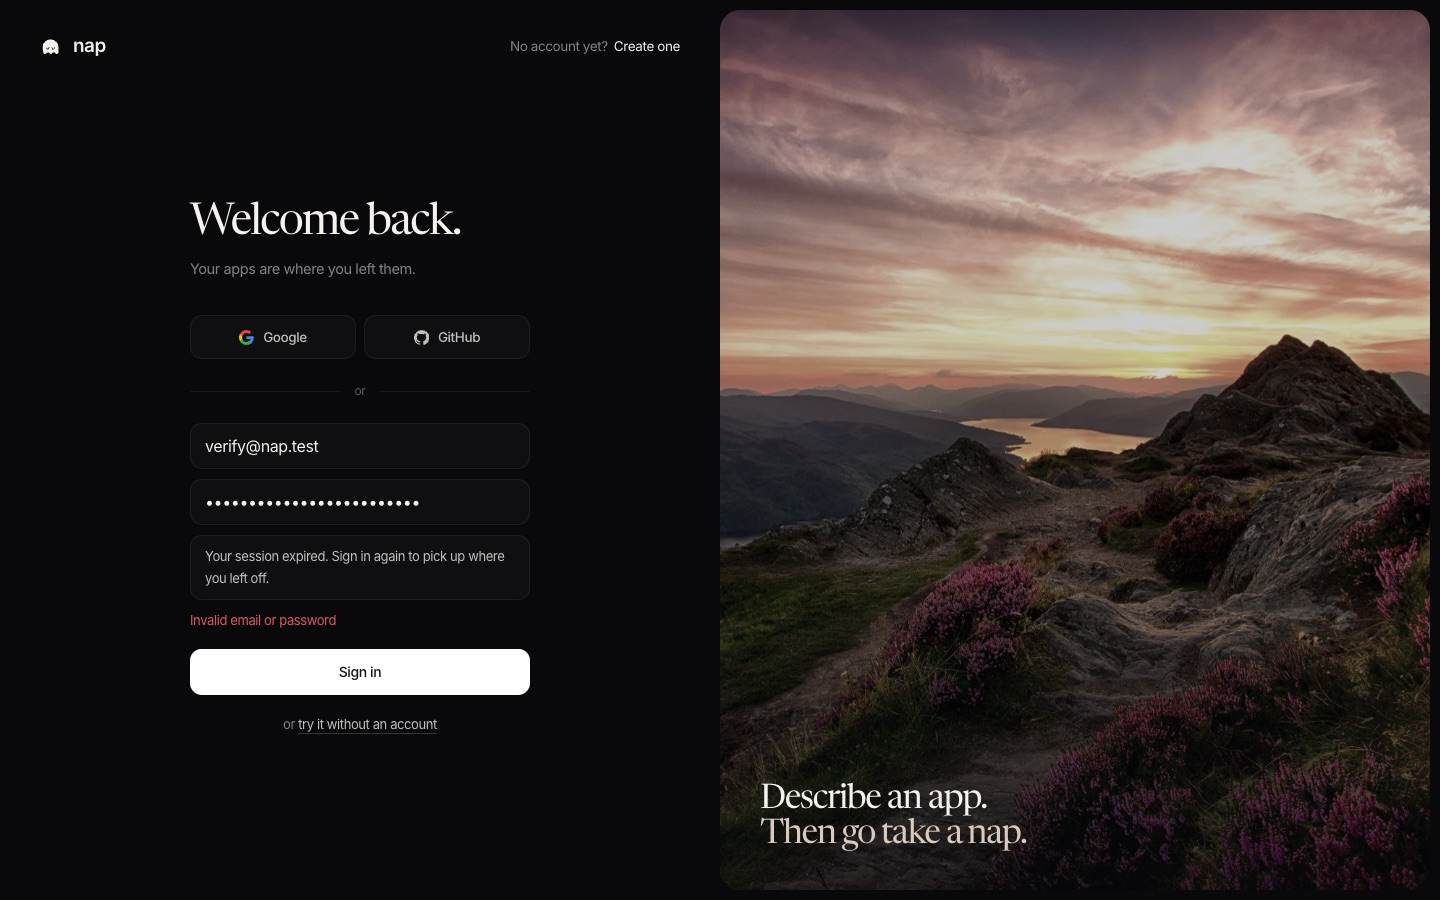
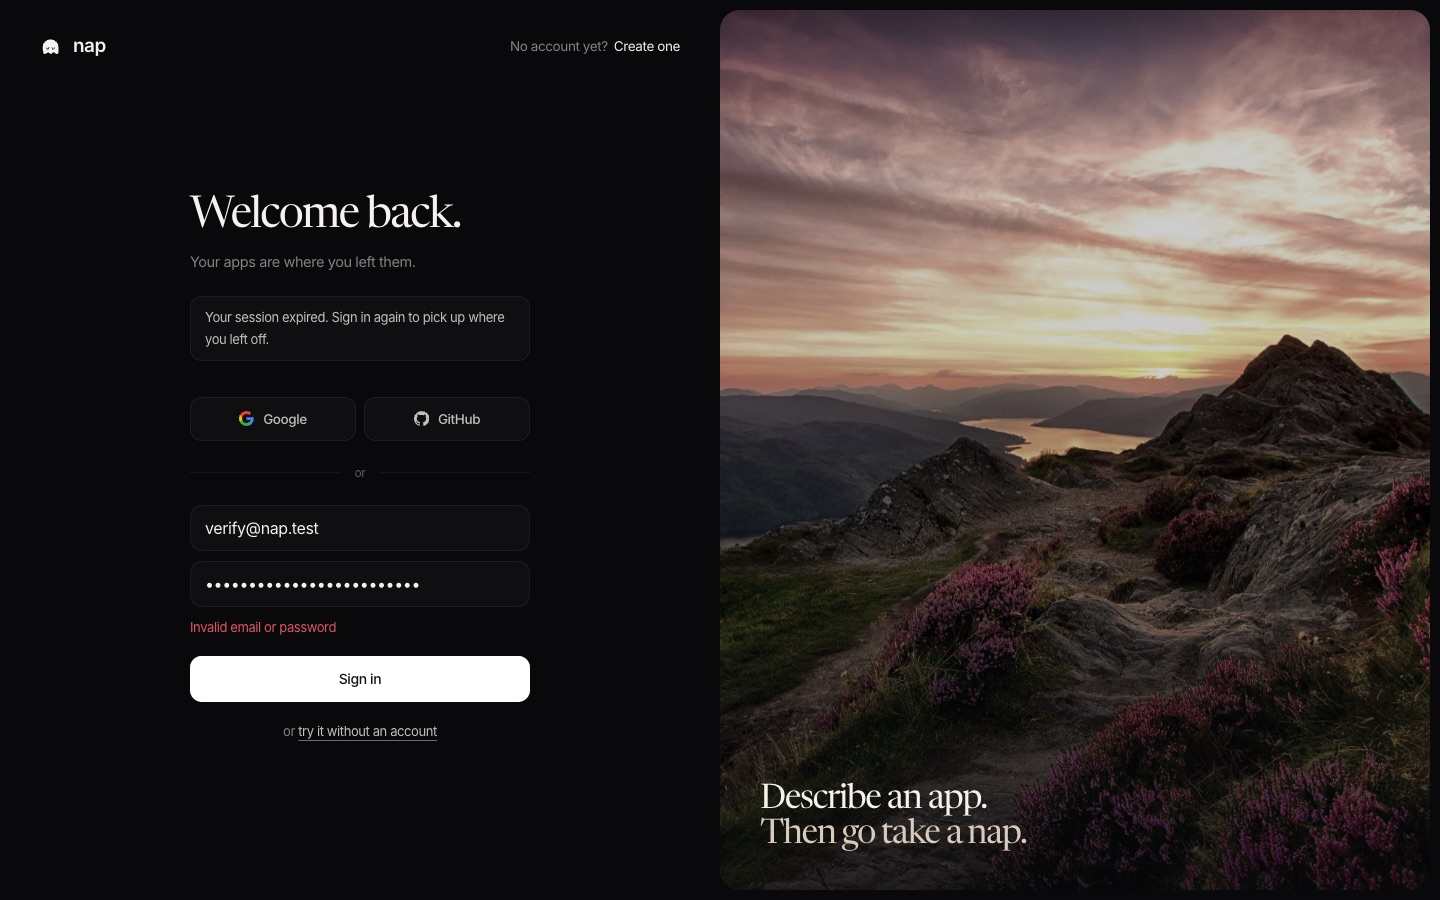
fix(web): show the auth form after 4s with providers still to come, and say it is loading
Aborting the providers lookup at 4 seconds could take away somebody's
only way in: a GitHub-only user whose lookup answered at 4.1s got an
email form and nothing else. The form is now shown at 4 seconds with the
providers' row still held open, and the lookup keeps going; a late
answer fills the row where it stands. The guest line's space is kept
whenever there is no guest door, so a late answer cannot re-centre the
form on a wide screen either.

While the controls are held, a screen reader meets "Loading the ways to
sign in…" under the heading, and the expired-session notice moves above
the held controls, since it is known before the page is drawn.

Screenshots refreshed for the notice's new place.

diff --git a/apps/web/src/auth/sign-in-form.tsx b/apps/web/src/auth/sign-in-form.tsx
@@ -67,16 +67,21 @@ export type SignInFormProps = {
   /** Only the providers the API actually has credentials for; see `/auth/providers`. */
   socialProviders: readonly SocialProvider[];
   /**
-   * The API has not said yet which providers it has.
-   *
-   * Their row sits above the email form, so its answer moves the fields: a row arriving pushes
-   * Email down onto Google or GitHub, and a row that turns out empty pulls the submit button up
-   * to where Email was, under a thumb, with a password manager's credentials already filled.
-   * Holding space for the row cannot cure both, so the controls stay hidden until the answer is
-   * in and drawn once, where they will stay. The row and the guest line are still held open while
-   * hidden, so with providers configured nothing moves when the controls appear.
+   * The API has not said yet which providers it has, so their row is held open, empty: when
+   * the answer brings providers they fill it where it stands and nothing below them moves.
    */
   socialPending?: boolean;
+  /**
+   * Keep the controls hidden: the answer is still due and may yet move them.
+   *
+   * The providers' row sits above the email form, so the answer moves the fields: a row
+   * arriving pushes Email down onto Google or GitHub, and a row that turns out empty pulls the
+   * submit button up to where Email was, under a thumb, with a password manager's credentials
+   * already filled. Holding space cannot cure both, so the controls are drawn once the answer
+   * is in. A lookup that is slow rather than answered gets the form anyway, with the row still
+   * held open for a late answer to fill; see `LiveSignIn`.
+   */
+  controlsHeld?: boolean;
   /** Whether this deployment lets anybody in without an account at all. */
   demoEnabled: boolean;
   /** In words, for the person who just tried. Undefined when nothing has gone wrong. */
@@ -130,6 +135,7 @@ export function SignInForm({
   onDemo,
   socialProviders,
   socialPending = false,
+  controlsHeld = false,
   demoEnabled,
   error,
   notice,
@@ -150,7 +156,7 @@ export function SignInForm({
   // `visibility`, not `display` or opacity: the controls keep their place, cannot be focused,
   // clicked or read out while hidden, and nothing below them moves when they appear. Inline so
   // a test's computed style can see it.
-  const held = socialPending ? ({ visibility: "hidden" } as const) : undefined;
+  const held = controlsHeld ? ({ visibility: "hidden" } as const) : undefined;
 
   return (
     <div className="landing min-h-dvh lg:grid lg:grid-cols-2">
@@ -189,7 +195,33 @@ export function SignInForm({
             <h1 className="lp-serif text-[40px] leading-none lg:text-[44px]">{copy.title}</h1>
             <p className="lp-muted mt-3 text-[14.5px] leading-normal">{copy.sub}</p>
 
-            <div style={held}>
+            {/*
+              A `status`, not an `alert`: nothing is wrong with what the reader just did, and the
+              two roles are announced with different urgency. Under the heading, because it
+              explains why the form is on screen at all, and outside the held controls, because
+              it is known before the page is drawn and is worth reading while they wait.
+            */}
+            {notice !== undefined && (
+              <p
+                role="status"
+                className="mt-6 rounded-xl border border-[#ffffff0f] bg-[#ffffff06] px-3.5 py-2.5 text-(--lp-ink-2) text-[13px] leading-relaxed"
+              >
+                {notice}
+              </p>
+            )}
+
+            {/*
+              The held controls are invisible, so somebody reading the page by ear meets this
+              line under the heading rather than nothing at all. Present only while they are
+              held: a page with nothing to report carries no status (`failure-surfaces.test`).
+            */}
+            {controlsHeld && (
+              <p role="status" className="sr-only">
+                Loading the ways to sign in…
+              </p>
+            )}
+
+            <div style={held} aria-busy={controlsHeld || undefined}>
               {/*
               The providers come first because they are the shortest way in, and each shows its
               name as well as its mark: two bare logos side by side read as decoration.
@@ -287,20 +319,6 @@ export function SignInForm({
                   />
                 </label>
 
-                {/*
-                A `status`, not an `alert`: nothing is wrong with what the reader just did, and
-                the two roles are announced with different urgency. Above the button, because it
-                explains why the form is on screen at all.
-              */}
-                {notice !== undefined && (
-                  <p
-                    role="status"
-                    className="rounded-xl border border-[#ffffff0f] bg-[#ffffff06] px-3.5 py-2.5 text-(--lp-ink-2) text-[13px] leading-relaxed"
-                  >
-                    {notice}
-                  </p>
-                )}
-
                 {error !== undefined && (
                   // A sentence for a person, so it is set like one, in the app's one red — which
                   // still reads at better than 5:1 on this ground.
@@ -338,11 +356,11 @@ export function SignInForm({
               </form>
 
               {/*
-              Its line is held, invisibly, while the API is still answering for the same reason
-              as the providers' row: on a wide screen the form is centred, and a line arriving
-              under it would lift every field by half its height.
+              With no guest door the line is still there, invisibly, so the form is the same
+              height either way: on a wide screen it is centred, and an answer that removed a
+              line under it after it was shown would drop every field by half that line.
             */}
-              {socialPending && !demoEnabled && (
+              {!demoEnabled && (
                 <p aria-hidden="true" className="invisible mt-5 text-[13px]">
                   &nbsp;
                 </p>

diff --git a/apps/web/src/auth/live-sign-in.test.tsx b/apps/web/src/auth/live-sign-in.test.tsx
@@ -19,7 +19,9 @@ const signInAnonymous = vi.fn();
 const getSession = vi.fn();
 /** What `/auth/providers` answers with, per test, and whether it answers at all. */
 const ways = { socialProviders: [] as string[], demo: false };
-let waysAnswer: "answers" | "unreachable" | "hangs" = "answers";
+let waysAnswer: "answers" | "unreachable" | "late" = "answers";
+/** Releases a "late" answer, when the test decides it has arrived. */
+let answerLate = () => {};
 
 vi.mock("next/navigation", () => ({
   useRouter: () => ({ push, replace, refresh: vi.fn() }),
@@ -46,11 +48,12 @@ vi.mock("./client.ts", () => ({
 vi.mock("../api/credentialed-fetch.ts", () => ({
   credentialedFetch: (_url: string, init?: RequestInit) => {
     if (waysAnswer === "unreachable") return Promise.reject(new TypeError("Failed to fetch"));
-    if (waysAnswer === "hangs") {
-      // Never answers; only the caller's own signal ends it, as with a real stalled request.
-      return new Promise((_, reject) =>
-        init?.signal?.addEventListener("abort", () => reject(init.signal?.reason)),
-      );
+    if (waysAnswer === "late") {
+      // Answers when the test says so, or fails when the caller aborts, as a real request would.
+      return new Promise((resolve, reject) => {
+        answerLate = () => resolve(new Response(JSON.stringify(ways)));
+        init?.signal?.addEventListener("abort", () => reject(init.signal?.reason));
+      });
     }
     return Promise.resolve(new Response(JSON.stringify(ways)));
   },
@@ -342,19 +345,27 @@ describe("the social buttons", () => {
     await vi.waitFor(() => expect(screen.getByLabelText("Email")).toBeVisible());
   });
 
-  it("gives up on a lookup that never answers, and shows the form without providers", async () => {
+  it("shows the form after waiting long enough, and fills in a provider that answers late", async () => {
+    // Somebody whose only way in is GitHub must still get it from a slow lookup, and it must
+    // arrive in the row held open for it rather than pushing the fields down.
     vi.useFakeTimers();
     try {
-      waysAnswer = "hangs";
+      waysAnswer = "late";
+      ways.socialProviders = ["github"];
       render(<LiveSignIn />);
       expect(screen.getByLabelText("Email")).not.toBeVisible();
 
-      // Just short of the limit, it is still waiting; at the limit it gives up.
+      // Just short of the limit, it is still waiting; at the limit it shows the form.
       await act(() => vi.advanceTimersByTimeAsync(3999));
       expect(screen.getByLabelText("Email")).not.toBeVisible();
       await act(() => vi.advanceTimersByTimeAsync(1));
-
       expect(screen.getByLabelText("Email")).toBeVisible();
+      expect(screen.getByTestId("providers-pending")).toBeInTheDocument();
+
+      await act(async () => answerLate());
+
+      expect(screen.getByRole("button", { name: "Continue with GitHub" })).toBeVisible();
+      expect(screen.queryByTestId("providers-pending")).toBeNull();
     } finally {
       vi.useRealTimers();
     }

diff --git a/apps/web/src/auth/live-sign-in.tsx b/apps/web/src/auth/live-sign-in.tsx
@@ -81,8 +81,8 @@ async function sessionSurvived(): Promise<boolean> {
   }
 }
 
-/** How long the providers lookup may take before the form is shown without them. */
-const PROVIDERS_TIMEOUT_MS = 4000;
+/** How long the form's controls wait for the providers lookup before they are shown anyway. */
+const PROVIDERS_WAIT_MS = 4000;
 
 export function LiveSignIn({
   notice,
@@ -108,9 +108,12 @@ export function LiveSignIn({
     social: [],
     demo: false,
   });
-  // Whether the API has answered, either way, or given up trying. Until then the form holds its
-  // controls hidden, because the answer moves them; see `socialPending` in the form.
+  // Whether the API has answered, either way. Until then the form holds the providers' row open
+  // and its controls hidden, because the answer moves them; see `controlsHeld` in the form.
   const [waysKnown, setWaysKnown] = useState(false);
+  // A slow answer is not a missing one: past this point the form is shown anyway, with the row
+  // still held open, so somebody whose only way in is GitHub still gets it when it arrives.
+  const [waitedLongEnough, setWaitedLongEnough] = useState(false);
 
   // A guest session is still a session. Better Auth correctly refuses to mint a second anonymous
   // identity for the same browser, so a person returning to this page should continue their
@@ -123,10 +126,10 @@ export function LiveSignIn({
 
   useEffect(() => {
     let cancelled = false;
-    // Bounded, because the form's controls stay hidden until this answers (see `socialPending`):
-    // a lookup that hangs must give up and show the email form rather than nothing at all.
     const lookup = new AbortController();
-    const giveUp = setTimeout(() => lookup.abort(), PROVIDERS_TIMEOUT_MS);
+    // The form's controls wait for this answer (see `controlsHeld`), but not for ever: a lookup
+    // that is slow shows the email form without waiting further, and keeps going.
+    const stopWaiting = setTimeout(() => setWaitedLongEnough(true), PROVIDERS_WAIT_MS);
 
     void credentialedFetch(`${DEFAULT_BASE_URL}/auth/providers`, { signal: lookup.signal })
       .then((response) => (response.ok ? response.json() : {}))
@@ -148,7 +151,7 @@ export function LiveSignIn({
 
     return () => {
       cancelled = true;
-      clearTimeout(giveUp);
+      clearTimeout(stopWaiting);
       lookup.abort();
     };
   }, []);
@@ -277,6 +280,7 @@ export function LiveSignIn({
       onDemo={() => void startDemo()}
       socialProviders={ways.social}
       socialPending={!waysKnown}
+      controlsHeld={!waysKnown && !waitedLongEnough}
       demoEnabled={ways.demo}
       demoPending={sessionPending}
       error={error}

diff --git a/apps/web/src/auth/sign-in-form.test.tsx b/apps/web/src/auth/sign-in-form.test.tsx
@@ -127,7 +127,7 @@ describe("the social providers", () => {
   it("hides every control while the API has not said which providers there are", () => {
     // The answer moves the fields: a row arriving pushes Email onto a provider, an empty one
     // pulls the submit button up to where Email was. Nothing is offered until it is known.
-    setup({ socialProviders: [], socialPending: true });
+    setup({ socialProviders: [], socialPending: true, controlsHeld: true, notice: "Expired." });
 
     for (const field of ["Email", "Password"]) {
       expect(screen.getByLabelText(field)).not.toBeVisible();
@@ -135,10 +135,22 @@ describe("the social providers", () => {
     // By text: a hidden button has no accessible name, so a role query cannot pick it out.
     expect(screen.getByText("Sign in", { selector: "button" })).not.toBeVisible();
     expect(screen.getByText("Create one", { selector: "button" })).not.toBeVisible();
-    // The heading is not a control and does not wait.
+    // The heading and the reason they are here are not controls and do not wait, and a screen
+    // reader is told the rest is coming rather than finding nothing under the heading.
     expect(screen.getByRole("heading", { level: 1 })).toBeVisible();
+    expect(screen.getByText("Expired.")).toBeVisible();
+    expect(screen.getByText("Loading the ways to sign in…")).toHaveAttribute("role", "status");
     // And the row keeps its place, so with providers configured nothing moves when it fills.
     expect(screen.getByTestId("providers-pending").parentElement?.children).toHaveLength(2);
+  });
+
+  it("shows the form with the row still held open when the lookup is only slow", () => {
+    // The answer may yet bring providers; they fill the held row rather than push Email down.
+    setup({ socialProviders: [], socialPending: true, controlsHeld: false });
+
+    expect(screen.getByLabelText("Email")).toBeVisible();
+    expect(screen.getByTestId("providers-pending")).toBeInTheDocument();
+    expect(screen.queryByText("Loading the ways to sign in…")).toBeNull();
   });
 
   it("offers neither when neither is configured", () => {
